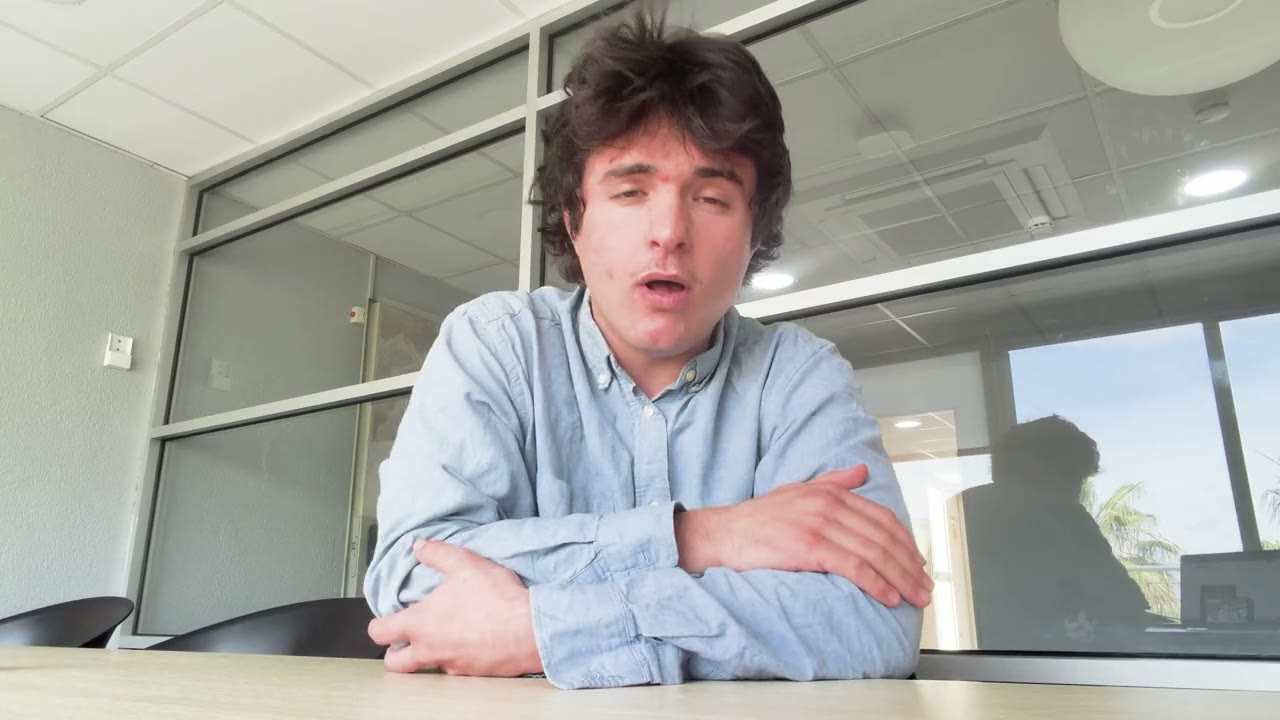
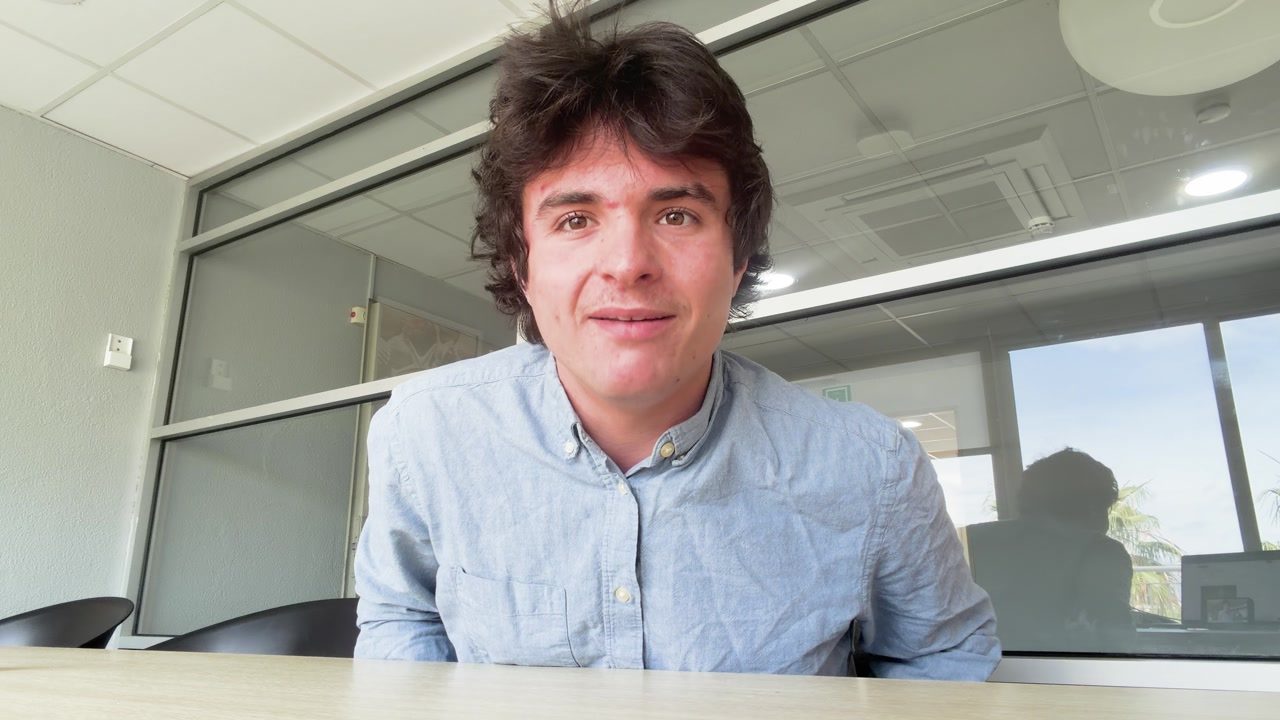
landing /founder-video: swap poster to t=12s frame (calm eye-contact still, was mid-speech mouth-open at t=0.5s)
Same video file, same encode parameters — the unflattering thumbnail was the
0.5s extraction, which caught a mid-syllable frame with mouth open and gaze
slightly off-camera. New poster pulled from t=12s: direct eye contact,
near-closed expression, clean upper-body framing with no gesticulating
hands. Video bytes unchanged (matches HEAD blob).

diff --git a/app/sw.js b/app/sw.js
@@ -4,7 +4,7 @@
 // Without this bump, users on v9 kept seeing the old dropdown with only
 // 8 items and the old 3-card pricing panel.
 
-const CACHE_NAME = 'debateos-v385';
+const CACHE_NAME = 'debateos-v386';
 
 
 // NOTE: '/' was previously precached here. That's why routing changes to the

diff --git a/sw.js b/sw.js
@@ -1,6 +1,6 @@
 // Bumped to v10 — see app/sw.js for detail.
 
-const CACHE_NAME = 'debateos-v385';
+const CACHE_NAME = 'debateos-v386';
 
 
 // NOTE: '/' was previously precached here. That's why routing changes to the